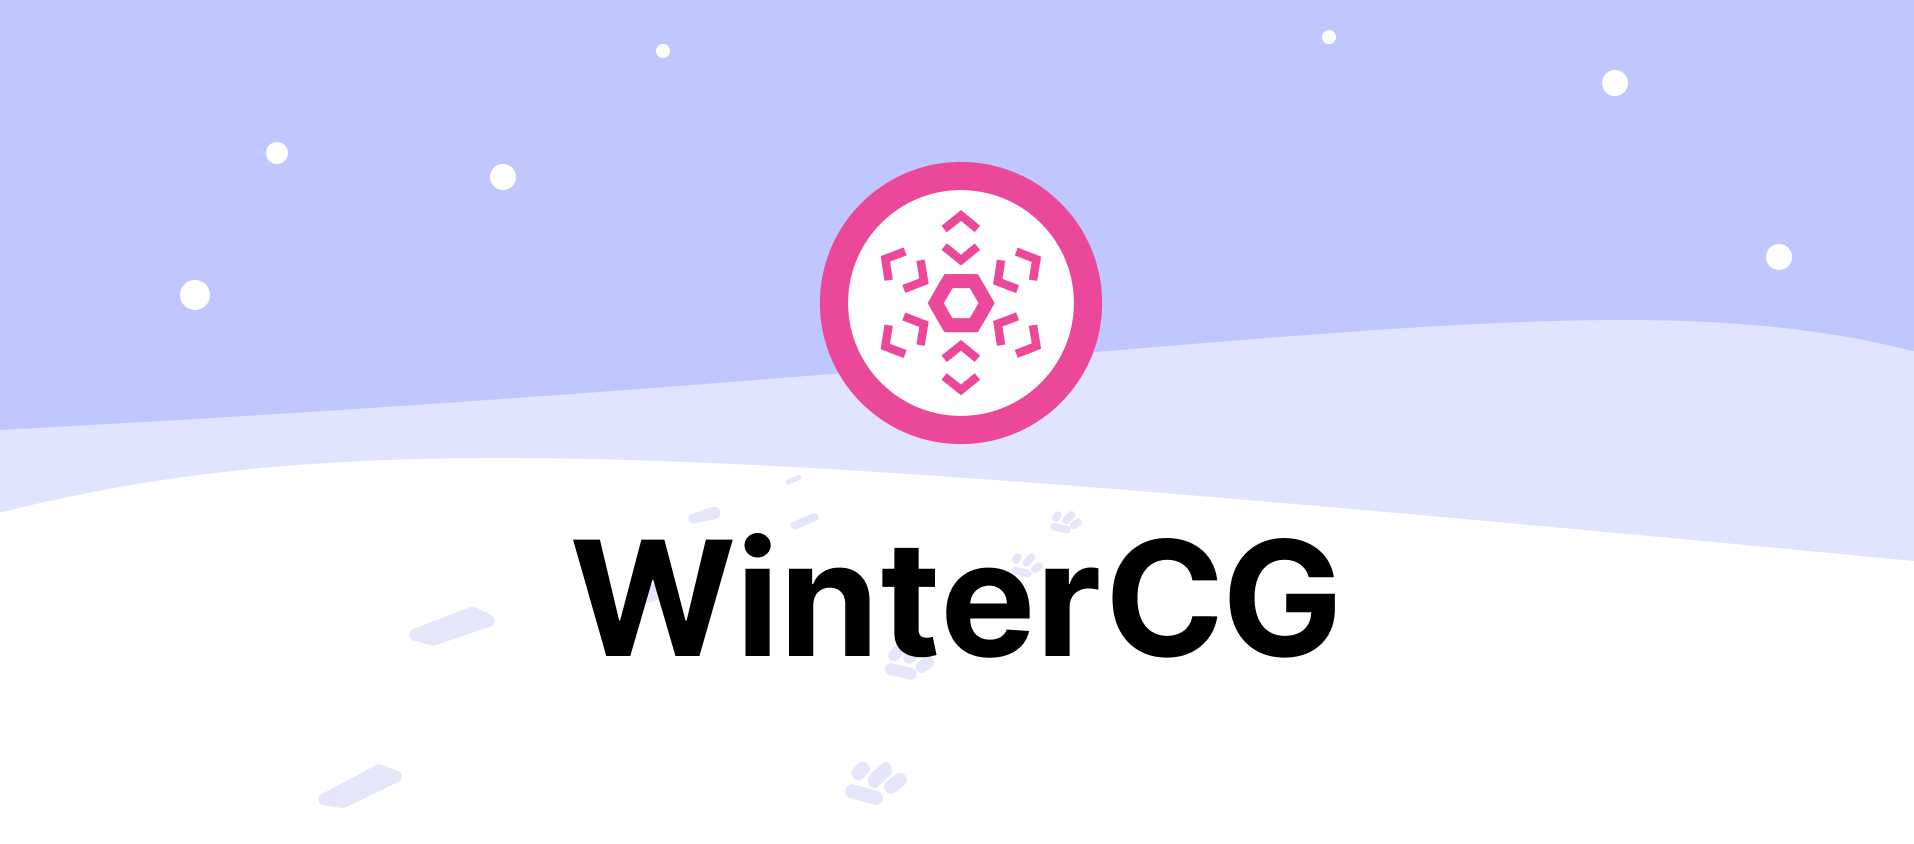
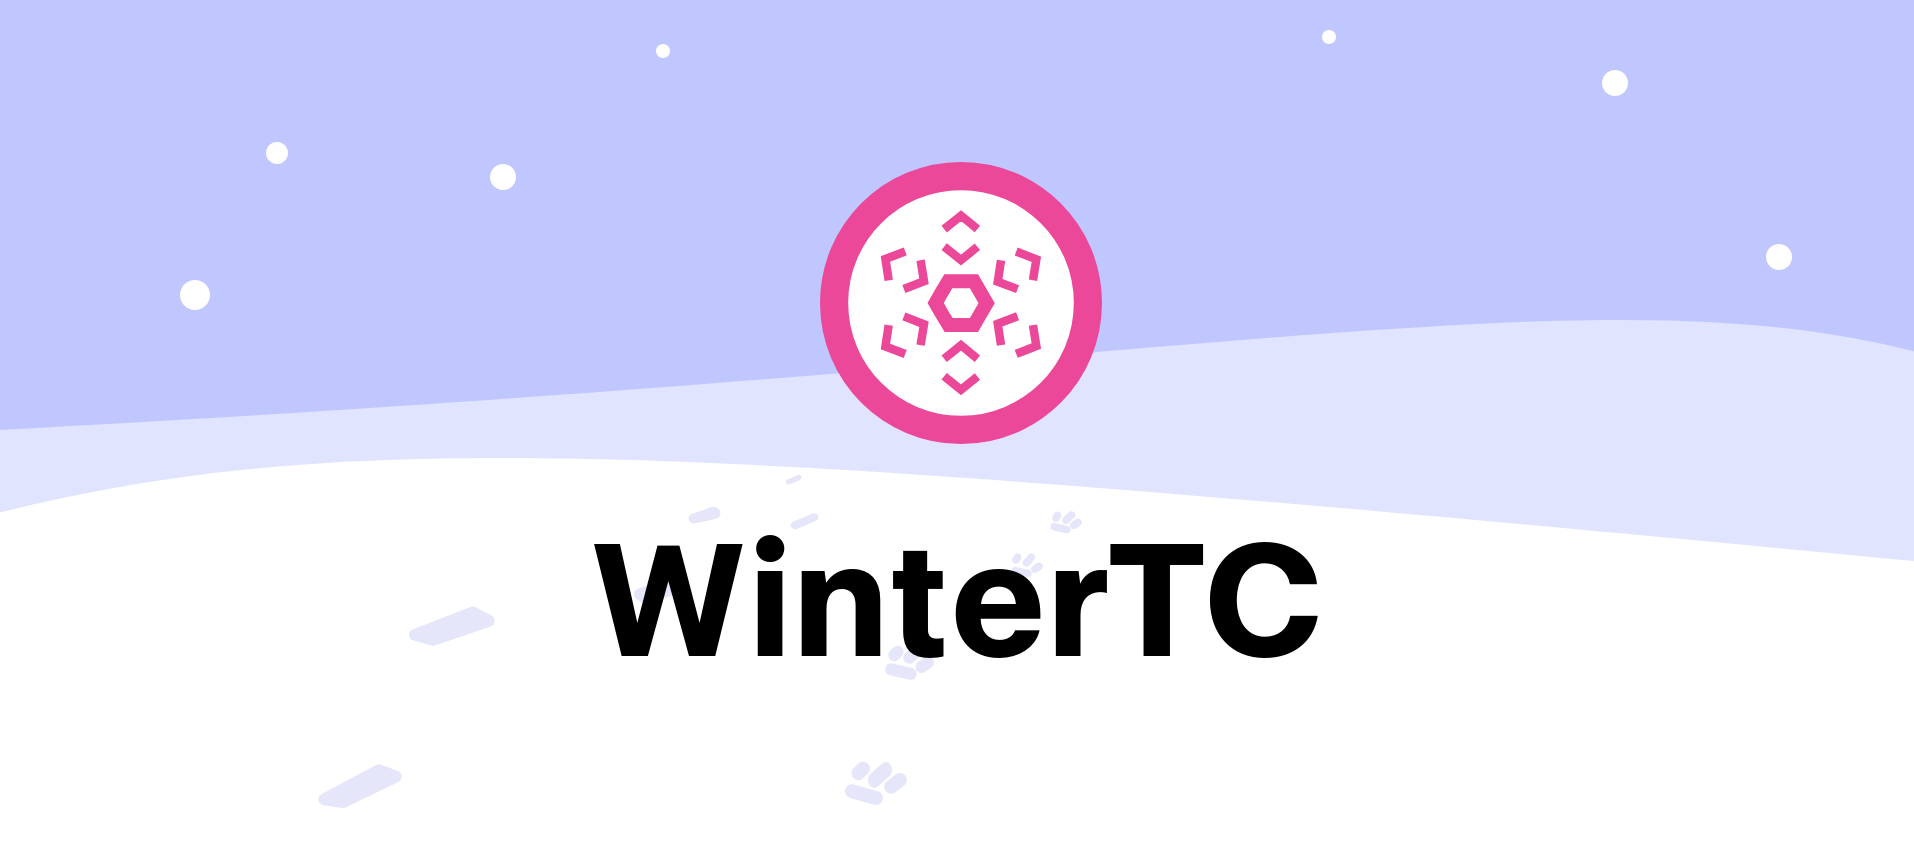
Update website for WinterTC (#48)
In the Ecma General Assembly that took place in December 11th, TC55
(a.k.a. WinterTC) was formed, which will take over the operations of
WinterCG. This commit updates the website to reflect this change.

Changed region(s): [[0.2774, 0.6161, 0.709, 0.8009]]

diff --git a/main.jsx b/main.jsx
@@ -14,18 +14,19 @@ function Home() {
       <Header />
       <Links />
       <p class="mt-12 text-lg text-justify">
-        WinterCG is a W3C community group that aims to achieve some level of API
-        interoperability across server-side JavaScript runtimes, especially for
-        APIs that are common with the web. This is done by working on a{" "}
+        WinterTC (TC55) is an Ecma International Technical Committee that aims
+        to achieve some level of API interoperability across server-side
+        JavaScript runtimes, especially for APIs that are common with the web.
+        This is done by standardizing a{" "}
         <a
           href="https://min-common-api.proposal.wintercg.org"
           class="text-pink-500 hover:text-pink-700 hover:underline"
         >
           “minimum common API”
         </a>{" "}
-        of web APIs that such runtimes should support, as well as by
+        shared with the web that such runtimes should support, as well as by
         collaborating with web standards groups (WHATWG, W3C...) for new web
-        APIs and changes to current web APIs. We also work on proposals to add
+        APIs and changes to current web APIs. We also publish standards to add
         new interoperable server-side APIs.{" "}
         <a
           href="/faq"
@@ -75,7 +76,7 @@ function Work() {
       <Header />
       <Links selected="/work" />
       <p class="mt-12 text-lg">
-        The WinterCG is currently working on various efforts to improve
+        WinterTC is currently working on various standards to improve
         interoperability across server-side runtimes:
       </p>
       <WorkItems items={work.specs} repoPrefix="wintercg/" />
@@ -96,20 +97,33 @@ function Faq() {
       <Links selected="/faq" />
       <section class="mt-12 text-lg space-y-10">
         <div class="space-y-4">
-          <a href="#what-is-the-wintercg" id="what-is-the-wintercg">
-            <h2 class="text-2xl font-medium">What is the WinterCG?</h2>
+          <div id="what-is-the-wintercg"></div>
+          <a href="#what-is-wintertc" id="what-is-wintertc">
+            <h2 class="text-2xl font-medium">What is WinterTC?</h2>
           </a>
           <p>
-            The Web-interoperable Runtimes Community Group (WinterCG) is a
-            community of people who are interested in interoperability across
-            server-side (Deno / Node.js) or edge JavaScript runtimes (Cloudflare
-            Workers / Deno Deploy), especially for Web Platform APIs.
+            The Technical Committee on Web-interoperable Server Runtimes
+            (WinterTC) is a community of people who are interested in
+            interoperability across server-side (Deno / Node.js) or edge
+            JavaScript runtimes (Cloudflare Workers / Deno Deploy), especially
+            for Web Platform APIs.
           </p>
           <p>
-            The WinterCG is organized as a W3C Community Group. This gives the
-            group access to the W3C's vast infrastructure and its IPR policy
-            work. This is the same type of community that the WICG is organized
-            in.
+            WinterTC is organized as Ecma International's{" "}
+            <a
+              href="https://ecma-international.org/technical-committees/tc55/"
+              class="text-pink-500 hover:text-pink-700 hover:underline"
+            >
+              Technical Committee number 55 (TC55)
+            </a>. This gives the group access to Ecma's vast infrastructure and
+            its IPR policy work, as well as the ability to publish standards.
+            This is the same type of committee as{" "}
+            <a
+              href="https://tc39.es/"
+              class="text-pink-500 hover:text-pink-700 hover:underline"
+            >
+              TC39
+            </a>, which standardizes the JavaScript language.
           </p>
         </div>
         <div class="space-y-4">
@@ -119,23 +133,23 @@ function Faq() {
             </h2>
           </a>
           <p>
-            The ultimate goal of the group is to promote runtimes supporting a
-            comprehensive unified API surface that JavaScript developers can
-            rely on, regardless of whether their code will be used in browsers,
-            servers, or edge runtimes.
+            The ultimate goal of this committee is to promote runtimes
+            supporting a comprehensive unified API surface that JavaScript
+            developers can rely on, regardless of whether their code will be
+            used in browsers, servers, or edge runtimes.
           </p>
           <p>
-            It is another goal of WinterCG that runtimes with needs for
+            It is another goal of WinterTC that runtimes with needs for
             capabilities beyond web platform APIs, in particular server-side and
             edge runtimes, still have unified surfaces.
           </p>
           <p>
-            The members of the group want to provide a space to better
+            The members of the committee want to provide a space to better
             coordinate between server-side implementors, as well as with browser
             vendors, on how to best achieve this interoperability.
           </p>
           <p>
-            It is not explicitly a goal of WinterCG to promote such a unified
+            It is not explicitly a goal of WinterTC to promote such a unified
             API surface for other JavaScript environments, such as embedded
             applications. However, the results of our work could be useful to
             such environments nonetheless.
@@ -151,9 +165,9 @@ function Faq() {
             </h2>
           </a>
           <p>
-            We want to provide guidance and documentation on how server side
-            runtimes can best implement Web Platform APIs and to what extent
-            they could deviate from browsers.
+            We want to specify and document how server side runtimes can best
+            implement Web Platform APIs and to what extent they could deviate
+            from browsers.
           </p>
           <p>
             We want to provide feedback to spec authors of Web Platform APIs
@@ -162,8 +176,8 @@ function Faq() {
             specifications.
           </p>
           <p>
-            We want to develop and incubate new APIs that, although they might
-            be too powerful for the Web Platform or not fit within its security
+            We want to develop and specify new APIs that, although they might be
+            too powerful for the Web Platform or not fit within its security
             model, would still be a great fit for server-side runtimes and would
             be part of a comprehensive unified API surface for such runtimes.
           </p>
@@ -208,10 +222,10 @@ function Faq() {
             specifications. If we think a new web platform API is needed, or if
             we think an existing spec needs changes, the goal is always for that
             change or addition to be developed in an existing venue (such as
-            WHATWG or W3C). WinterCG will publish requirements on what those
+            WHATWG or W3C). WinterTC will publish requirements on what those
             changes could be, and it will be up to that existing standards body
             to make these changes, possibly through members who are part of both
-            WinterCG and that standards body.
+            WinterTC and that standards body.
           </p>
           <p>
             We do not want to create new server-side APIs that overlap with
@@ -230,58 +244,115 @@ function Faq() {
         </div>
         <div class="space-y-4">
           <a
-            href="#does-the-wintercg-operate-by-consensus"
-            id="does-the-wintercg-operate-by-consensus"
+            href="#is-this-the-same-as-wintercg"
+            id="is-this-the-same-as-wintercg"
           >
             <h2 class="text-2xl font-medium">
-              Does the WinterCG operate by consensus?
+              Is this the same as “WinterCG”?
             </h2>
           </a>
           <p>
-            The group strives for rough consensus among contributors for changes
-            to work products. Instead of formal consensus, the editors for a
-            given work product make the judgement on whether a change is ready
-            for inclusion and has enough support from the group. The group
-            itself has a strict consensus policy outlined in the charter, which
-            is overseen by the group chairs.
+            We initially started our work of working on this cross-runtime
+            interoperability in May 2022 by creating the Web-interoperable
+            Runtimes Community Group (nicknamed WinterCG) under the W3C. We
+            chose to organize it as a W3C Community Group because it was open
+            for anyone to participate, without needing to be a W3C member.
+          </p>
+          <p>
+            W3C Community Groups are set up to help people organize together,
+            but they can't publish standards. And as WinterCG matured, and our
+            goal expanded over time to include defining non-web APIs, it became
+            clear that we needed to form some working group or technical
+            committee, which can publish standards. Therefore, in December 2024
+            we formed WinterTC (formally, TC55) as an Ecma International
+            Technical Committee. When WinterTC is fully set up, all WinterCG
+            work will move there, and then WinterCG will close.
           </p>
         </div>
+        {
+          // TODO: Uncomment and rewrite when we've figured out TC55's process.
+          //
+          // <div class="space-y-4">
+          //   <div id="does-the-wintercg-operate-by-consensus"></div>
+          //   <a
+          //     href="#does-wintertc-operate-by-consensus"
+          //     id="does-wintertc-operate-by-consensus"
+          //   >
+          //     <h2 class="text-2xl font-medium">
+          //       Does WinterTC operate by consensus?
+          //     </h2>
+          //   </a>
+          //   <p>
+          //     The group strives for rough consensus among contributors for changes
+          //     to work products. Instead of formal consensus, the editors for a
+          //     given work product make the judgement on whether a change is ready
+          //     for inclusion and has enough support from the group. The group
+          //     itself has a strict consensus policy outlined in the charter, which
+          //     is overseen by the group chairs.
+          //   </p>
+          // </div>
+        }
         <div class="space-y-4">
-          <a href="#who-controls-the-wintercg" id="who-controls-the-wintercg">
-            <h2 class="text-2xl font-medium">Who controls the WinterCG?</h2>
+          <div id="who-controls-the-wintercg"></div>
+          <a href="#who-controls-wintertc" id="who-controls-wintertc">
+            <h2 class="text-2xl font-medium">Who controls WinterTC?</h2>
           </a>
           <p>
-            The WinterCG is controlled by the community of people who are
-            working in it. The chair(s) of the group help moderate discussion
-            and help guide the group towards consensus on proposed changes.
+            WinterTC is controlled by the community of people who are working in
+            it. The chair(s) of the group help moderate discussion and help
+            guide the group towards consensus on proposed changes.
           </p>
           <p>
-            Currently the group consists of individual members, and members from
-            the following organizations:
+            Currently the group consists of individual members, as well as
+            members from the following organizations:
           </p>
           <ul class="list-disc pl-7">
-            <li>Azion</li>
             <li>Bloomberg</li>
             <li>Cloudflare</li>
             <li>Deno</li>
-            <li>Fastly</li>
             <li>Igalia</li>
-            <li>Netlify</li>
             <li>Node.js</li>
-            <li>Shopify</li>
-            <li>Vercel</li>
-            <li>Suborbital</li>
           </ul>
+        </div>
+        <div class="space-y-4">
+          <a
+            href="#how-can-i-participate"
+            id="how-can-i-participate"
+          >
+            <h2 class="text-2xl font-medium">
+              How can I participate?
+            </h2>
+          </a>
           <p>
-            The group is open to anyone who also shares the interest in using
-            Web Platform APIs outside of the browser. You can join{" "}
+            The work of WinterTC happens openly{" "}
             <a
-              href="https://www.w3.org/community/wintercg"
+              href="https://github.com/wintercg"
               class="text-pink-500 hover:text-pink-700 hover:underline"
             >
-              here
-            </a>. You do not need to be a W3C member to participate. Community
-            group participation is free of charge.
+              on Github
+            </a>
+            , and most of the discussion and conversation around it happens in
+            {" "}
+            <a
+              href="https://matrix.to/#/#wintercg:matrix.org"
+              class="text-pink-500 hover:text-pink-700 hover:underline"
+            >
+              our Matrix room
+            </a>
+            . Anyone is welcome to participate in both of them.
+          </p>
+          <p>
+            Only WinterTC delegates and invited experts can participate in
+            WinterTC meetings, though. Delegates need to belong to an Ecma
+            member organization, but anyone else who wants to be involved in
+            WinterTC can become an invited expert. To do so, you can{" "}
+            <a
+              href="https://github.com/WinterCG/admin/issues/new/choose"
+              class="text-pink-500 hover:text-pink-700 hover:underline"
+            >
+              open an issue
+            </a>{" "}
+            in the WinterTC admin repo.
           </p>
         </div>
       </section>
@@ -291,20 +362,20 @@ function Faq() {
 }
 
 const DESCRIPTION =
-  "The Web-interoperable Runtimes Community Group aims to provide a space for JS runtimes to collaborate on API interoperability.";
+  "WinterTC is an Ecma International Technical Committee aiming to provide a space for JS runtimes to collaborate on API interoperability.";
 
 function Layout(props) {
   return (
     <>
       <Helmet>
-        <title>WinterCG</title>
+        <title>WinterTC</title>
         <link
           rel="shortcut icon"
           href="/static/logo.svg"
           type="image/svg+xml"
         />
         <meta name="description" content={DESCRIPTION} />
-        <meta name="og:title" content="WinterCG" />
+        <meta name="og:title" content="WinterTC" />
         <meta name="og:description" content={DESCRIPTION} />
         <meta name="og:image" content="https://wintercg.org/static/cover.png" />
         <meta name="og:url" content="https://wintercg.org" />
@@ -321,11 +392,13 @@ function Header() {
   return (
     <section class="flex items-center gap-6">
       <a class="flex-shrink-0" href="/">
-        <img src="/static/logo.svg" alt="wintercg logo" class="w-24 h-24" />
+        <img src="/static/logo.svg" alt="wintertc logo" class="w-24 h-24" />
       </a>
       <a href="/" class="block space-y-1">
-        <h1 class="text-4xl font-semibold">WinterCG</h1>
-        <p class="italic text-xl">Web-interoperable Runtimes Community Group</p>
+        <h1 class="text-4xl font-semibold">WinterTC</h1>
+        <p class="italic text-xl">
+          Technical Committee on Web-interoperable Server Runtimes
+        </p>
       </a>
     </section>
   );
@@ -345,8 +418,8 @@ const LINKS = [
     href: "https://github.com/wintercg",
   },
   {
-    name: "Charter",
-    href: "https://github.com/wintercg/admin/blob/main/charter.md",
+    name: "Scope",
+    href: "https://ecma-international.org/technical-committees/tc55",
   },
 ];
 
@@ -357,11 +430,10 @@ function Links(props) {
         <li>
           <a
             href={props.selected === link.href ? undefined : link.href}
-            class={`block border-4 ${
-              props.selected === link.href
+            class={`block border-4 ${props.selected === link.href
                 ? "bg-pink-200 text-black border-pink-300"
                 : "bg-pink-500 text-white border-pink-300 hover:border-pink-600"
-            } sm:p-2 md:p-3 font-medium text-lg text-center`}
+              } sm:p-2 md:p-3 font-medium text-lg text-center`}
           >
             {link.name}
           </a>
@@ -456,7 +528,8 @@ function Logos() {
   return (
     <div>
       <p class="mt-16 text-center">
-        The WinterCG includes participants from:
+        The work of WinterTC (and its predecessor WinterCG) has included
+        participation from:
       </p>
       <div class="mt-8 flex gap-4 flex-wrap justify-evenly sm:justify-evenly items-center">
         {PARTNER_LOGOS.map(({ src, href, name, restrict }) => (
@@ -493,13 +566,7 @@ function Footer() {
         </a>
       </p>
       <p class="text-sm text-gray-600">
-        Copyright © WinterCG. This work is licensed under the{" "}
-        <a
-          href="http://www.w3.org/Consortium/Legal/2015/copyright-software-and-document"
-          class="hover:underline"
-        >
-          W3C Software and Document License
-        </a>.
+        Copyright © Ecma International.
       </p>
     </footer>
   );
